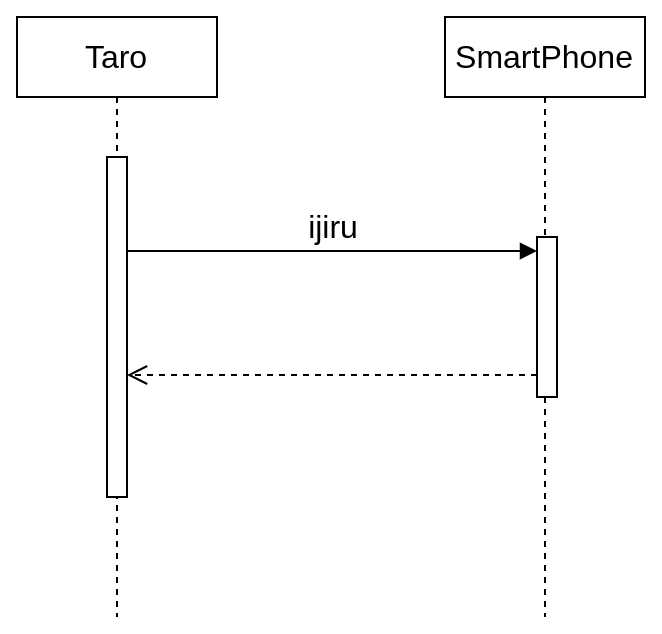
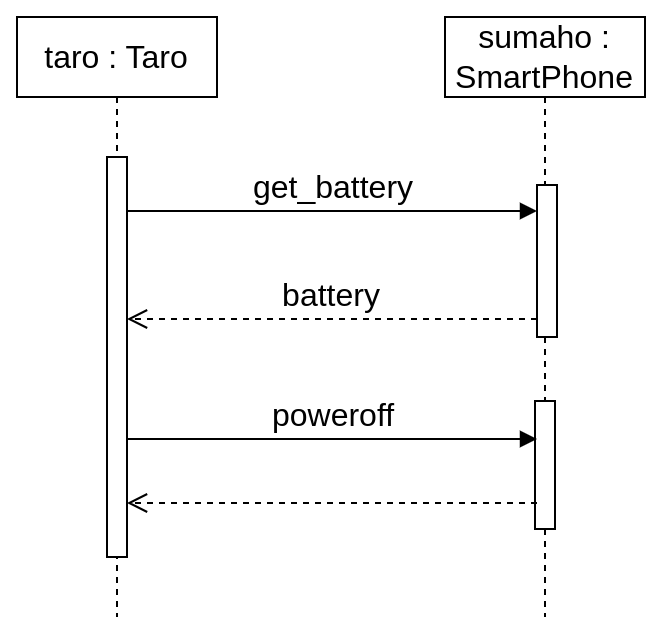
class-diag更新

diff --git a/docs/activity/class-diag/text03/page01.html b/docs/activity/class-diag/text03/page01.html
@@ -20,11 +20,19 @@
 <h2><script>GetTitle()</script></h2>
 
 <p>
-ここではシーケンス図について説明します。
+ここでは<a href="https://ja.wikipedia.org/wiki/%E3%82%B7%E3%83%BC%E3%82%B1%E3%83%B3%E3%82%B9%E5%9B%B3">シーケンス図</a>について説明します。
 </p>
 
 <p>
-以下準備中
+シーケンス図はオブジェクト(インスタンス)間の<a href="../../oop-basic/text01/page05.html">メッセージパッシング</a>(メソッド呼び出し)を時系列で表現する図です。
+<br>
+シーケンス図を描くと処理の流れが視覚的に分かりやすくなるので、バグの混入を防いだり、デバッグが楽になったりするというメリットがあります。
+</p>
+
+<p>
+では簡単な例を示しながらシーケンス図の描き方について説明します。
+<br>
+まず以下の「Taro」クラスと「SmartPhone」クラスが次のように定義されているとします。
 </p>
 
 <div class="info">
@@ -36,7 +44,8 @@ public class Taro{
 
     public Taro(){
         SmartPhone sumaho = new SmartPhone();
-        sumaho.ijiru();
+        System.out.println( "残量 = " + sumaho.get_battery() + "％" );
+        sumaho.poweroff();
     }
 }
 </pre>
@@ -49,14 +58,22 @@ public class Taro{
 <pre class="wrap">
 public class SmartPhone{
 
-    public void ijiru(){
-         System.out.println( "楽しい" );
-   }
+    private int battery = 0;
+
+    public int get_battery(){
+         return battery;
+    }
+
+    public void poweroff(){
+        System.out.println( "電源OFF" );
+    }
 }
 </pre>
 </div>
 
-<br>
+<p>
+このとき「Main」クラスで Taro クラスのインスタンス「taro」を作成します。
+</p>
 
 <div class="info">
 <input type="checkbox"><b>ソース 3 : Main クラス </b>
@@ -70,11 +87,77 @@ public class Main{
 </pre>
 </div>
 
+<p>
+すると taro はコンストラクタの中で SmartPhone クラスのインスタンス「sumaho」を作成して get_battery メソッドと poweroff メソッドを呼び出します。
+<br>
+実行結果は以下になります。
+</p>
 
+<div class="info">
+<input type="checkbox"><b>実行結果</b>
+<pre class="wrap">
+残量 = 0％
+電源OFF
+</pre>
+</div>
+
+<p>
+以上の処理の流れをシーケンス図で表したのが次の図1となります。
+</p>
+
+<div class="info">
 <p>
 <input type="checkbox"><b>図1　シーケンス図の例</b>
 </p>
 <img src="./img/page01-fig1.png" alt="">
+</div>
+
+<p>
+一番上にある四角とその下に付いている破線を「ライフライン」と呼び、あるクラスのオブジェクト(インスタンス)が存在する期間を表します(図2)。
+</p>
+
+<div class="info">
+<p>
+<input type="checkbox"><b>図2　ライフライン</b>
+</p>
+<img src="./img/page01-fig2.png" alt="">
+</div>
+
+<p>
+ライフラインの破線上にある小さい四角を「実行仕様」と呼び、オブジェクト(インスタンス)が実行されている期間を表します(図3)。
+</p>
+
+<div class="info">
+<p>
+<input type="checkbox"><b>図3　実行仕様</b>
+</p>
+<img src="./img/page01-fig3.png" alt="">
+</div>
+
+<p>
+あるオブジェクト(インスタンス)の実行仕様から他のオブジェクト(インスタンス)の実行仕様をつないでいる矢印を「メッセージ」と呼び、実線の矢印を「同期」(メソッド呼び出し)、破線の矢印を「応答」と呼びます(図4)。
+<br>
+またメッセージの上に書いてあるコメントを「メッセージ名」と呼びます。
+</p>
+
+<div class="info">
+<p>
+<input type="checkbox"><b>図4　同期と応答</b>
+</p>
+<img src="./img/page01-fig4.png" alt="">
+</div>
+
+<p>
+今回の例では get_battery メソッドを呼び出した時のメッセージ名にはメソッドの名前(get_battery)、その応答のメッセージ名にはフィールド名(battery)を書いていますが、メッセージ名の書き方に決まりは無いので言葉を使って書くこともあります。
+<br>
+また poweroff メソッドは void 型なので応答メッセージはありませんが、この場合は破線矢印の記述を省略する場合もあります。
+</p>
+
+<p>
+以上が基本的なシーケンス図の描き方の説明になりますが、条件分岐(alt)・ループ処理(Loop)などの制御処理もシーケンス図で表すことが出来ます。
+<br>
+制御処理については今回は触れませんので、興味があれば自分で調べてください。
+</p>
 
 <br>
 <script>PreNext(1,1)</script>

diff --git a/docs/activity/class-diag/index.html b/docs/activity/class-diag/index.html
@@ -19,7 +19,7 @@
 <h1><script>GetTitle()</script></h1>
 
 <p>
-最終更新日: 2023/6/28
+最終更新日: 2023/6/30
 </p>
 
 <div class="info">
